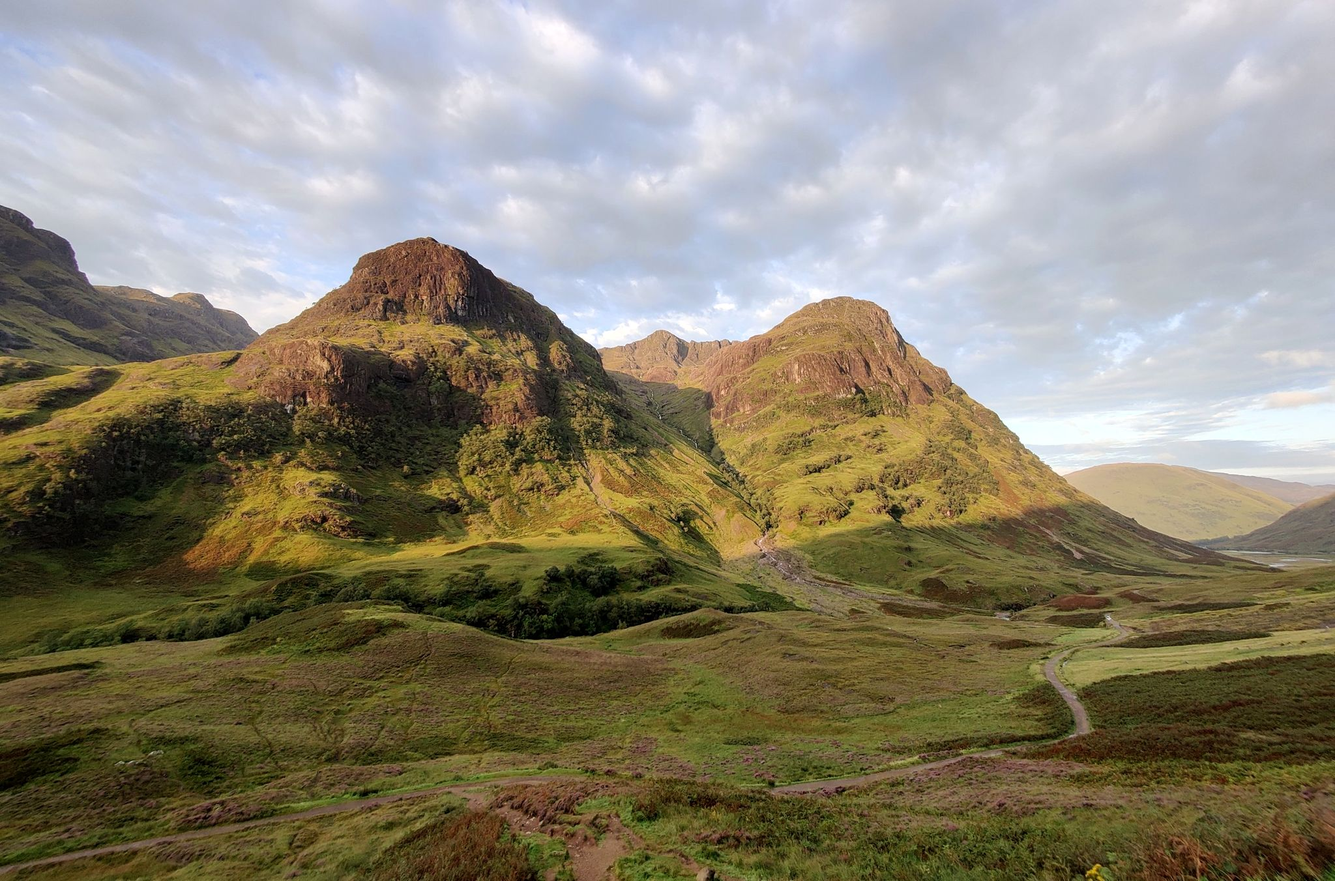
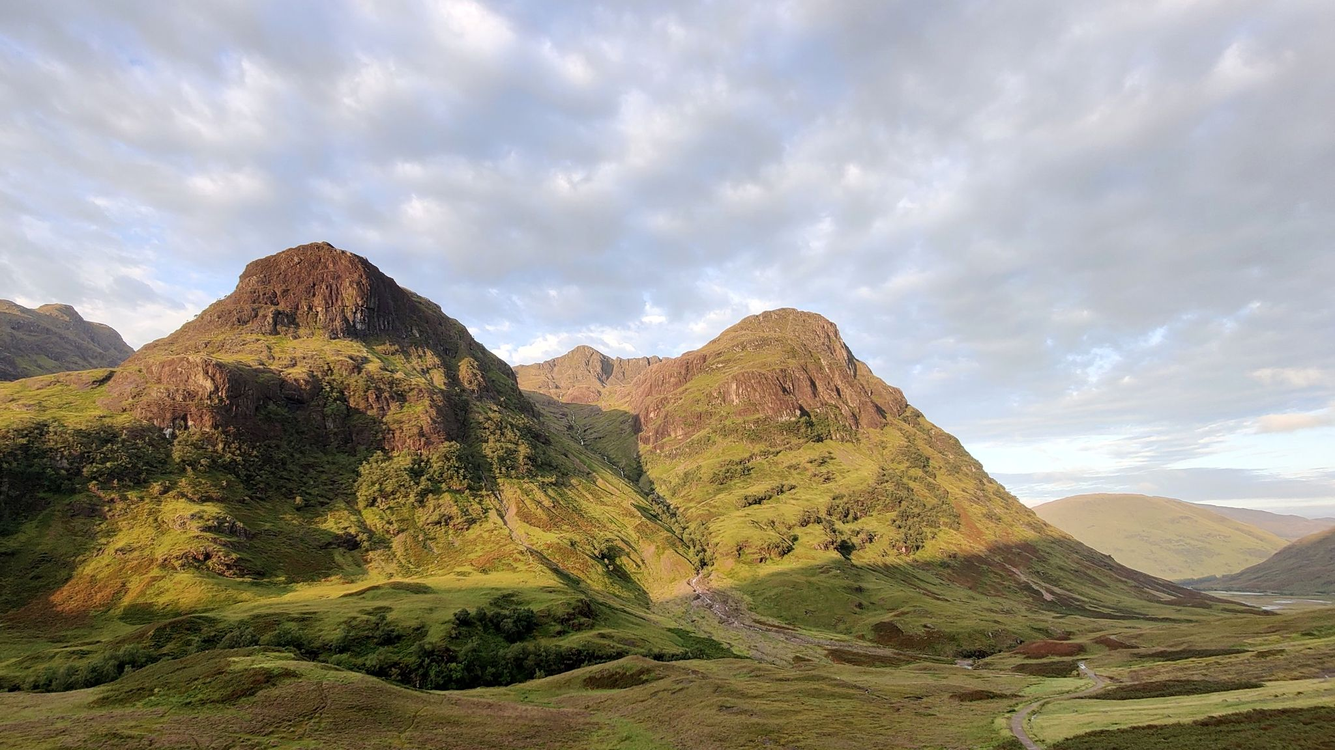
Theme switch: colours glide, Glen Coe reframed so its peaks sit on Glamaig's
Claude-Session: https://claude.ai/code/session_01UEteQBNTVuyLRCXvVwFh7c

diff --git a/index.html b/index.html
@@ -171,10 +171,21 @@ nav a.founder-link{padding-left:18px; border-left:1px solid var(--line)}
 html[data-theme="light"] .reelbg img.rest{opacity:.3}
 html:not([data-theme="light"]) .hero :is(.sub, h1){text-shadow:0 1px 14px rgba(0,0,0,.55)}
 /* light mode settles on green hills instead of the snow; the switch crossfades between them */
-.reelbg img.alt{opacity:0; transform:scale(1.04); transition:opacity 1.2s ease, transform 14s ease-out; filter:saturate(.95) brightness(.8) contrast(1.05)}
+.reelbg img.alt{opacity:0; transform:scale(1.08); transition:opacity 1.2s ease, transform 14s ease-out; filter:saturate(.95) brightness(.8) contrast(1.05)}
 .reelbg.settled img.rest{transition:opacity 1.2s ease, transform 14s ease-out}
 html[data-theme="light"] .reelbg.settled img.rest{opacity:0}
-html[data-theme="light"] .reelbg.settled img.alt{opacity:.72; transform:scale(1)}
+html[data-theme="light"] .reelbg.settled img.alt{opacity:.72}
+.reelbg img.alt.go{transform:scale(1)}
+/* both photos share one frame, so the peaks line up as they crossfade */
+.reelbg img.rest, .reelbg img.alt{object-position:30% 42%}
+/* the page colours glide between dark and light instead of snapping */
+@property --paper{syntax:'<color>'; inherits:true; initial-value:#121110}
+@property --card{syntax:'<color>'; inherits:true; initial-value:#1A1816}
+@property --ink{syntax:'<color>'; inherits:true; initial-value:#F2EEE6}
+@property --muted{syntax:'<color>'; inherits:true; initial-value:#A39E94}
+@property --line{syntax:'<color>'; inherits:true; initial-value:#2F2C28}
+@property --red{syntax:'<color>'; inherits:true; initial-value:#74B08A}
+html{transition:--paper .9s ease, --card .9s ease, --ink .9s ease, --muted .9s ease, --line .9s ease, --red .9s ease}
 .hero.intro h1, .hero.intro .sub, .hero.intro .cta{opacity:0; transform:translateY(14px)}
 .hero h1, .hero .sub, .hero .cta{transition:opacity .6s ease, transform .6s ease}
 .hero .sub{transition-delay:.12s} .hero .cta{transition-delay:.24s}
@@ -879,7 +890,7 @@ footer .btn:hover{background:var(--frame-ink); color:var(--frame)}
     for(let i=0;i<N;i++){ const im = new Image(); im.alt=''; im.decoding='async'; im.src='img/reel/r'+String(i).padStart(2,'0')+'.jpg'; bg.insertBefore(im, bg.firstChild); imgs.push(im); }
     const last = imgs[N-1];
     const alt = new Image(); alt.alt=''; alt.decoding='async'; alt.className='alt'; alt.src='img/reel/r-light.jpg'; bg.insertBefore(alt, bg.firstChild);
-    const settle = ()=>{ bg.classList.remove('run'); imgs.forEach(im=>im.classList.remove('on')); last.classList.add('rest'); bg.classList.add('settled'); requestAnimationFrame(()=>requestAnimationFrame(()=>last.classList.add('go'))); };
+    const settle = ()=>{ bg.classList.remove('run'); imgs.forEach(im=>im.classList.remove('on')); last.classList.add('rest'); bg.classList.add('settled'); requestAnimationFrame(()=>requestAnimationFrame(()=>{ last.classList.add('go'); alt.classList.add('go'); })); };
     if(reduce){ settle(); return; }
     hero.classList.add('intro');
     const snap = ()=>{ clap.classList.add('snap'); setTimeout(()=>{ slate.classList.add('flash'); start = performance.now(); }, 210); };
